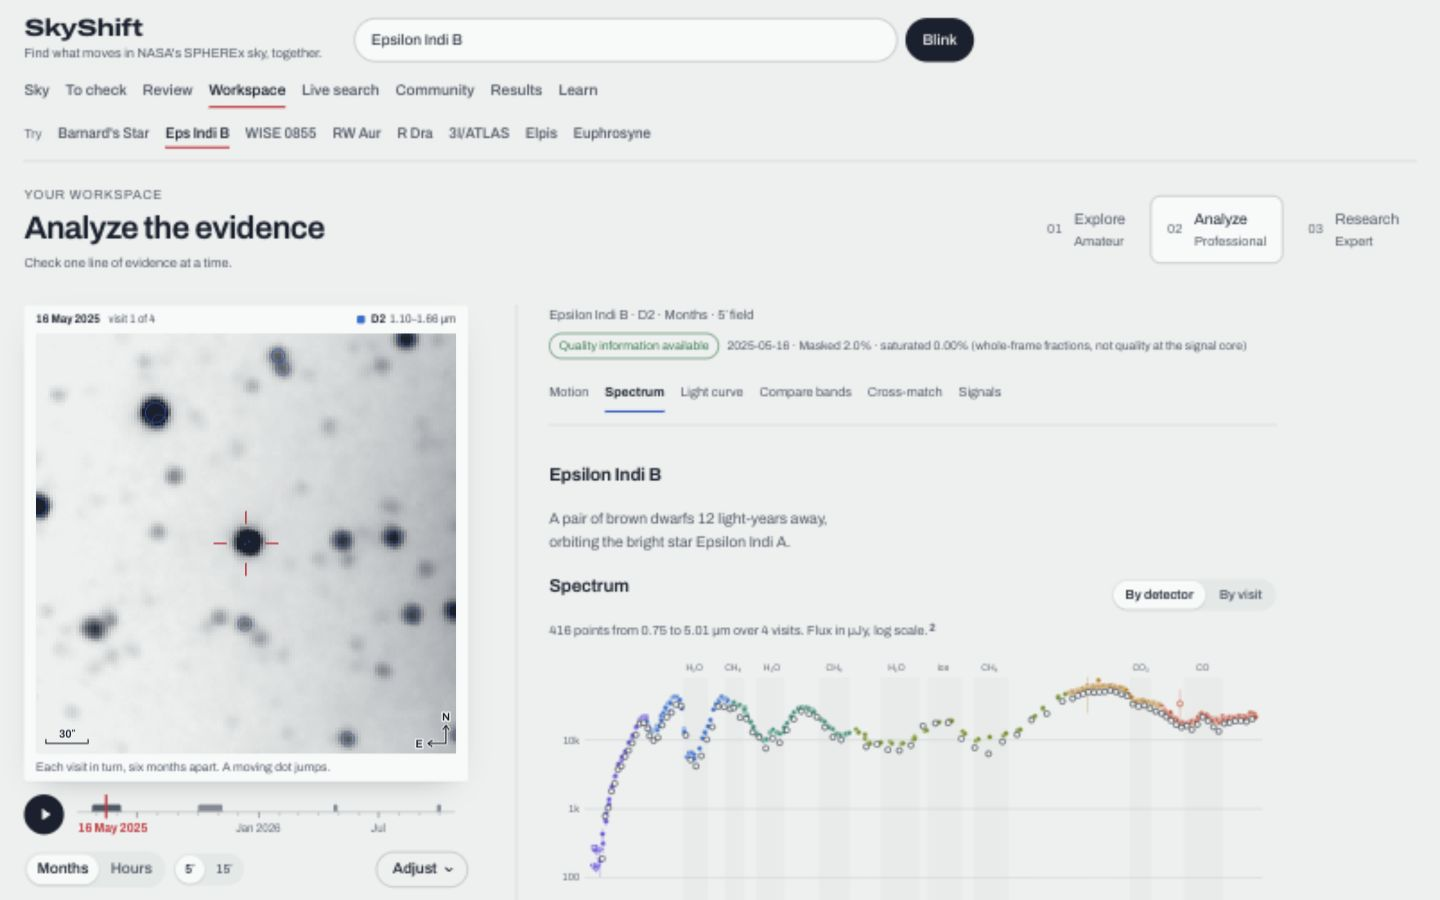
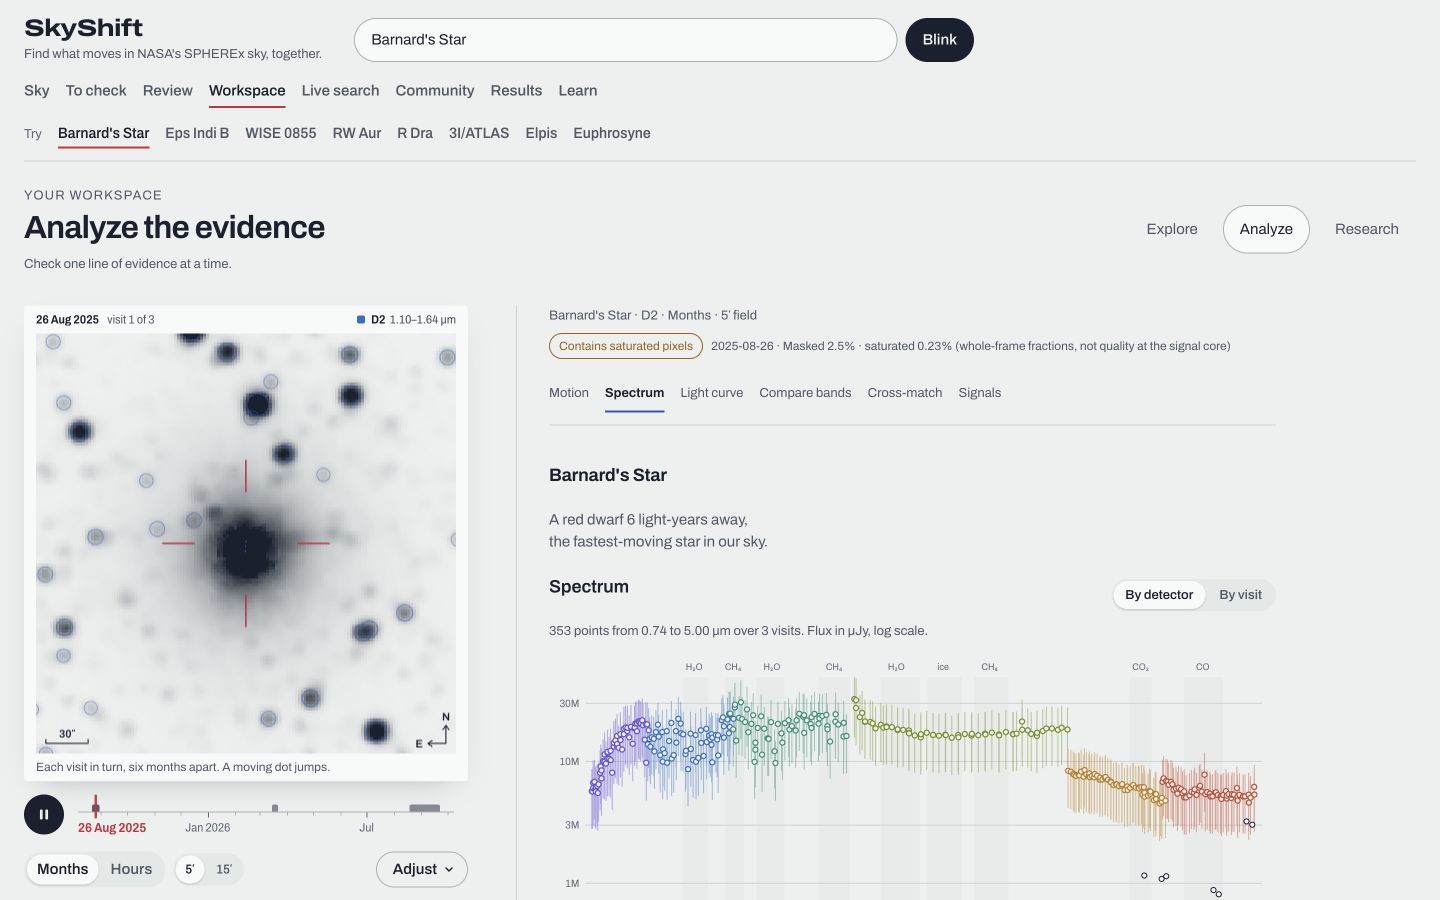
Name workspace views by task without audience ranks
Keep Explore, Analyze and Research as neutral task names. Remove audience labels and numbered ranks, update the accessible view-switcher name, and refresh desktop/mobile previews.

Verified 731 web tests, production build and 390px layout. Deployment remains deferred.

diff --git a/web/src/product/workbench.css b/web/src/product/workbench.css
@@ -75,12 +75,10 @@ html:not([data-details="on"]) #science-workbench .expert-only { display:none; }
 .workspace-head h1 {font-size:clamp(1.5rem,2.5vw,2rem);line-height:1.15;letter-spacing:-.025em;margin:var(--s1) 0 var(--s2);}
 .workspace-eyebrow {font-size:var(--step--1);color:var(--ink-2);letter-spacing:.08em;text-transform:uppercase;}
 .workspace-description {color:var(--ink-2);font-size:var(--step--1);max-width:54ch;}
-.workspace-levels {display:flex;flex:none;gap:var(--s2);}
-.workspace-levels a {display:flex;align-items:center;gap:var(--s3);padding:var(--s3) var(--s4);text-decoration:none;color:var(--ink-2);border:1px solid transparent;border-radius:10px;}
-.workspace-levels a[aria-current] {background:var(--sheet);border-color:var(--hair-strong);color:var(--ink);}
-.workspace-levels a:hover {background:var(--sheet-2);}
-.workspace-levels small {display:block;color:var(--ink-2);font-size:var(--step--1);font-weight:400;}
-.workspace-level-number {font-size:var(--step--1);color:var(--ink-3);font-variant-numeric:tabular-nums;}
+.workspace-modes {display:flex;flex:none;gap:var(--s2);}
+.workspace-modes a {display:flex;align-items:center;gap:var(--s3);padding:var(--s3) var(--s4);text-decoration:none;color:var(--ink-2);border:1px solid transparent;border-radius:var(--radius-ctl);}
+.workspace-modes a[aria-current] {background:var(--sheet);border-color:var(--hair-strong);color:var(--ink);}
+.workspace-modes a:hover {background:var(--sheet-2);}
 .workspace-selection {grid-area:selection;display:flex;align-items:center;gap:var(--s3);flex-wrap:wrap;font-size:var(--step--1);padding:var(--s3);background:var(--sheet-2);border-left:2px solid var(--pencil-red);}
 .page-blink [hidden],.stories-page [hidden] {display:none!important;}
 .page-blink[data-workspace-mode] .bk-col {width:100%;}
@@ -140,10 +138,8 @@ html:not([data-details="on"]) .page-blink[data-workspace-mode="research"] #scien
   #science-workbench {border-left:0;padding-left:0;max-width:none;border-top:1px solid var(--hair);padding-top:var(--s5);}
 }
 @media(max-width:600px) {
-  .workspace-levels {width:100%;gap:var(--s1);justify-content:space-between;}
-  .workspace-levels a {padding:var(--s2) var(--s3);gap:var(--s2);flex:1;}
-  .workspace-level-number {display:none;}
-  .workspace-levels small {font-size:.7rem;}
+  .workspace-modes {width:100%;gap:var(--s1);justify-content:space-between;}
+  .workspace-modes a {padding:var(--s2) var(--s3);gap:var(--s2);flex:1;}
   .workspace-description {max-width:36ch;}
   .workspace-head {padding-top:var(--s4);}
   .story-gallery {grid-template-columns:minmax(0,1fr);}

diff --git a/web/src/app/app.ts b/web/src/app/app.ts
@@ -84,10 +84,10 @@ export function startApp(root: HTMLElement): void {
     <main class="page page-blink" data-page="explore" hidden>
       <header class="workspace-head">
         <div><p class="workspace-eyebrow">Your workspace</p><h1 id="blink-h1">Explore the sky</h1><p class="workspace-description"></p></div>
-        <nav class="workspace-levels" aria-label="Workspace level">
-          <a href="#/explore" data-level="explore"><span class="workspace-level-number">01</span><span>Explore<small>Amateur</small></span></a>
-          <a href="#/explore/analyze" data-level="analyze"><span class="workspace-level-number">02</span><span>Analyze<small>Professional</small></span></a>
-          <a href="#/explore/research" data-level="research"><span class="workspace-level-number">03</span><span>Research<small>Expert</small></span></a>
+        <nav class="workspace-modes" aria-label="Workspace view">
+          <a href="#/explore" data-level="explore">Explore</a>
+          <a href="#/explore/analyze" data-level="analyze">Analyze</a>
+          <a href="#/explore/research" data-level="research">Research</a>
         </nav>
       </header>
       <div class="workspace-selection" hidden><span>Position selected on the image.</span><button class="btn btn-ghost" type="button" data-clear-selection>Clear</button><button class="btn" type="button" data-flag-selection>Flag this position</button></div>

diff --git a/web/src/product/workspace-state.ts b/web/src/product/workspace-state.ts
@@ -1,10 +1,10 @@
 export type WorkspaceMode = 'explore' | 'analyze' | 'research';
 export const MODES = {
-  explore: {title:'Explore the sky', audience:'Amateur', description:'Watch the sky change. Start with what you can see.', tabs:[]},
-  analyze: {title:'Analyze the evidence', audience:'Professional', description:'Check one line of evidence at a time.', tabs:[
+  explore: {title:'Explore the sky', description:'Watch the sky change. Start with what you can see.', tabs:[]},
+  analyze: {title:'Analyze the evidence', description:'Check one line of evidence at a time.', tabs:[
     ['motion','Motion'],['spectrum','Spectrum'],['lightcurve','Light curve'],['compare','Compare bands'],['crossmatch','Cross-match'],['signals','Signals'],
   ]},
-  research: {title:'Research the result', audience:'Expert', description:'Trace the data, inspect the processing and test the assumptions.', tabs:[
+  research: {title:'Research the result', description:'Trace the data, inspect the processing and test the assumptions.', tabs:[
     ['data','Data'],['processing','Processing'],['validation','Validation'],['sensitivity','Sensitivity'],['export','Export'],
   ]},
 } as const;

diff --git a/docs/science-production-integration.md b/docs/science-production-integration.md
@@ -10,26 +10,26 @@ The user subsequently requested: retain the integration and do not deploy for no
 - Started from upstream `8522cd7`, then incorporated the latest fetched main, `84b0f1c` (including the QA pipeline, honest UI copy, featured zones and measured-layer contract).
 - Imported the user's scientific work from `9b1c775`, retaining its history. The original prototype and working copies were not changed.
 - Preserved main's Lightbox UI, sky atlas, original blink observations, object measurements, review, live search, courses, votes and tools.
-- Replaced the long Science disclosure with three workspace levels: Explore (Amateur), Analyze (Professional) and Research (Expert). They share one player and canonical measurements. The home page opens Explore; the atlas remains at `#/sky`.
+- Replaced the long Science disclosure with three task-based workspace views: Explore, Analyze and Research. They share one player and canonical measurements. The view switcher uses task names without audience labels or numbered ranks. The home page opens Explore; the atlas remains at `#/sky`.
 - Included motion and cold-source checks, D3/D6 comparison, DR1 reference spectrum, synthetic W1/W2 and experimental halo light curves, spectral audio, sensitivity estimates, catalogue checks, cultural modules and exports.
 - The retained preview uses English throughout, including scientific messages, accessibility labels, historical sky charts, guest-star captions and planet events. English cultural displays use the existing English names and records; scientific data and the bilingual source records are preserved.
 - This release does not import the prototype's game or API inspector.
 
 The change spans core (legacy analysis adapter), server, web, precompute scripts and container packaging. Repeated wavelengths now use the weighted-mean fallback when the polynomial normal matrix is rank deficient; a regression test also checks that full-rank spectra retain their polynomial fit. The first remote Linux CI run exposed a pre-existing race in spectra loader statistics: shared counter updates occasionally omitted a photo. Workers now return their own counts for serial aggregation. A barrier-based regression reproduces the loss before the fix (10 instead of 40) and passes after it. No new formal contract fields are introduced by this integration.
 
-## Three-level workspace
+## Task-based workspace views
 
-| Level | Route | Reading surface |
+| View | Route | Reading surface |
 | --- | --- | --- |
-| Explore · Amateur | `#/explore` | Original observations, a short target/motion summary, quality warnings and a guided next step. Advanced player controls and dense charts stay out of this view. |
-| Analyze · Professional | `#/explore/analyze/<section>` | Motion, Spectrum, Light curve, Compare bands, Cross-match or Signals; one section at a time beside the same player. |
-| Research · Expert | `#/explore/research/<section>` | Data/provenance, Processing, Validation, Sensitivity or Export. Local-only computation remains gated by actual server capability. |
+| Explore | `#/explore` | Original observations, a short target/motion summary, quality warnings and a guided next step. Advanced player controls and dense charts stay out of this view. |
+| Analyze | `#/explore/analyze/<section>` | Motion, Spectrum, Light curve, Compare bands, Cross-match or Signals; one section at a time beside the same player. |
+| Research | `#/explore/research/<section>` | Data/provenance, Processing, Validation, Sensitivity or Export. Local-only computation remains gated by actual server capability. |
 
-Switching levels keeps the target, detector, clock, current frame, highlighted position and the last section used in each professional level. A derived layer retains its explicit caption and a Show observations action. Changing a target clears stale results. Data and methods are shared rather than refitted for each audience; simplified views retain uncertainty and quality disclosures.
+Switching views keeps the target, detector, clock, current frame, highlighted position and the last section used in each view. A derived layer retains its explicit caption and a Show observations action. Changing a target clears stale results. Data and methods are shared rather than refitted for each audience; simplified views retain uncertainty and quality disclosures.
 
 The former `#/explore/science` link opens Research → Processing. Historical asterisms, guest-star images and planet events now live at `#/learn/stories`, linked from Learn. They load only when opened and return to the same workspace observation. Stories do not affect scientific scoring.
 
-Browser checks exercised all sections, the real model layer, source metadata, a paused second exposure retained across all three levels and Stories, and the 390px layout. Current screenshots are in `docs/previews/workspace`; earlier science-release screenshots document the previous UI.
+Browser checks exercised all sections, the real model layer, source metadata, a paused second exposure retained across all three views and Stories, and the 390px layout. Current screenshots are in `docs/previews/workspace`; earlier science-release screenshots document the previous UI.
 
 ## Data and deployment boundaries
 
@@ -47,7 +47,7 @@ Arbitrary-field background analysis is local-only by default. `SKYSHIFT_ENABLE_S
 
 Locked Python environments and `npm ci` were used. Logs are under the ignored `.runtime/release` directory. The production TypeScript/Vite build succeeds; the existing bundle-size warning remains.
 
-The full suites passed 1,319 tests: web 731, server 279, core 62, pipeline 195, scientific helpers 19 and validation utilities 33. Three optional network tests were skipped. The workspace UI revision reran all 731 web tests and the production build. Integration checks verify that mode/section changes and hash-history navigation retain the current observation, metadata and selected signal without reloading the player; Explore does not request extended science products. English chart text and historical/event descriptions remain covered. Release tests specifically check that raw observations bypass legacy caches, all five scientific products work without native jobs, published image grids are not relabelled, exports remain portable, and hosted background jobs are disabled.
+The full suites passed 1,319 tests: web 731, server 279, core 62, pipeline 195, scientific helpers 19 and validation utilities 33. Three optional network tests were skipped. The workspace UI revision reran all 731 web tests and the production build. Integration checks verify that view/section changes and hash-history navigation retain the current observation, metadata and selected signal without reloading the player; Explore does not request extended science products. English chart text and historical/event descriptions remain covered. Release tests specifically check that raw observations bypass legacy caches, all five scientific products work without native jobs, published image grids are not relabelled, exports remain portable, and hosted background jobs are disabled.
 
 HTTP smoke checks passed for all five science/analysis APIs and model/residual/reference layers (25 groups), including every returned binary frame's size. Browser verification covered the five targets, scientific navigation, candidate checks, reference overlays, comparison, original object list and lessons, and a 390-pixel mobile viewport without horizontal overflow. Screenshots and UI checks are in `docs/previews/science-release`.
 
